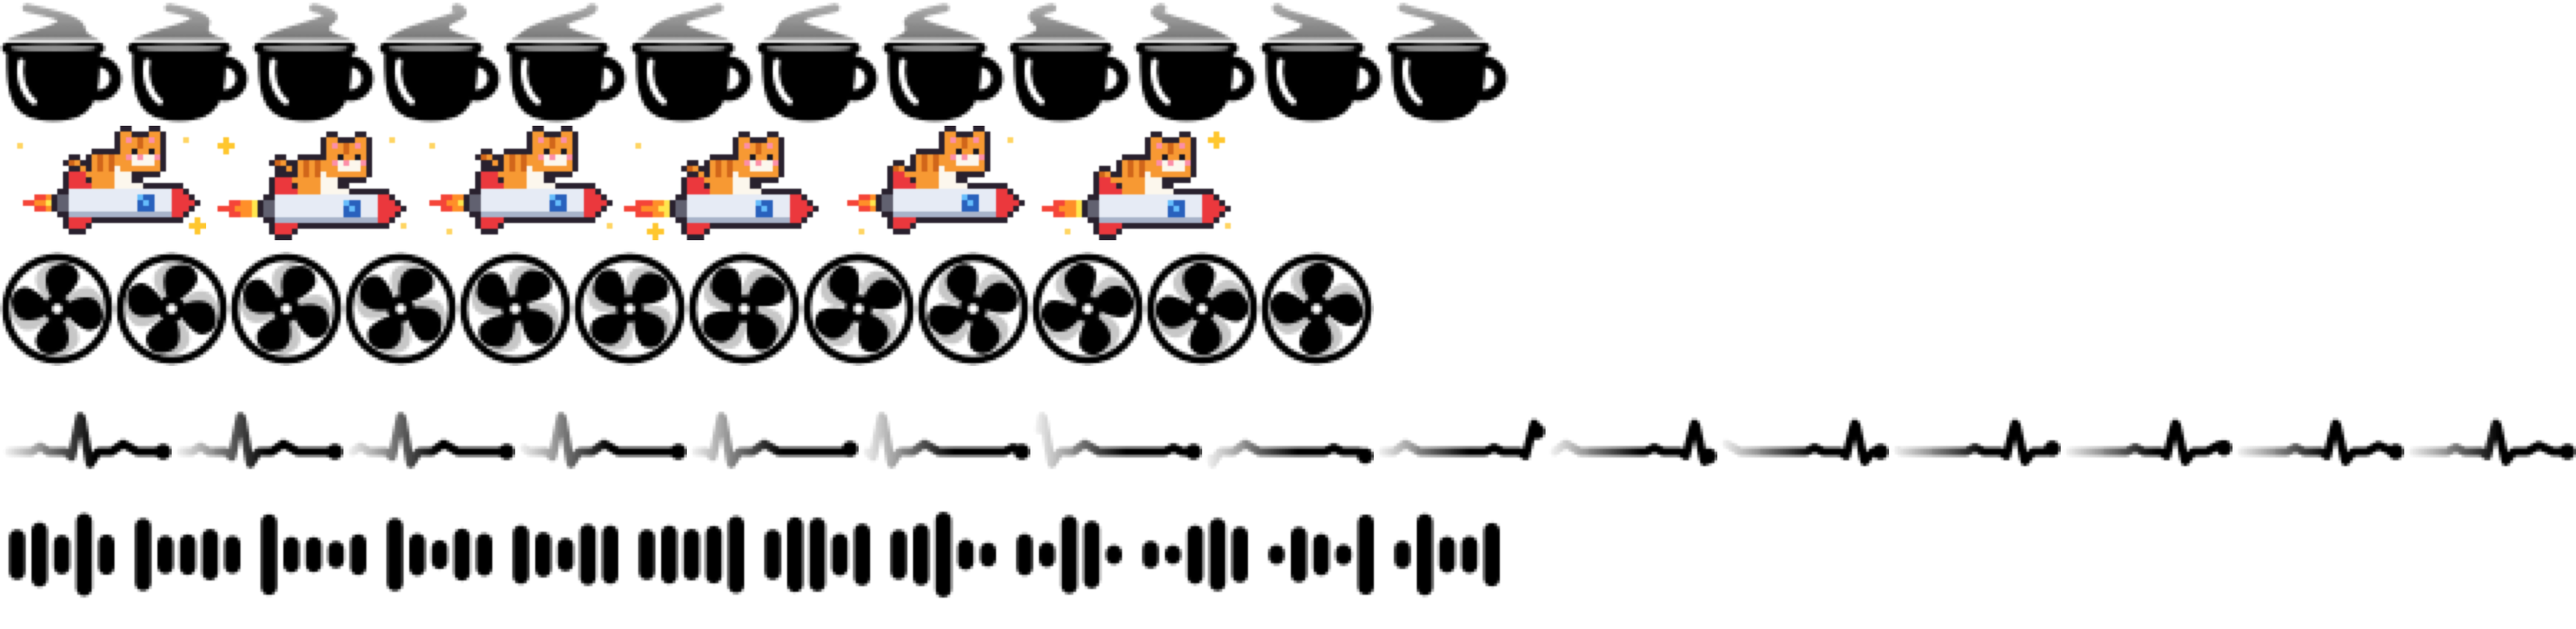
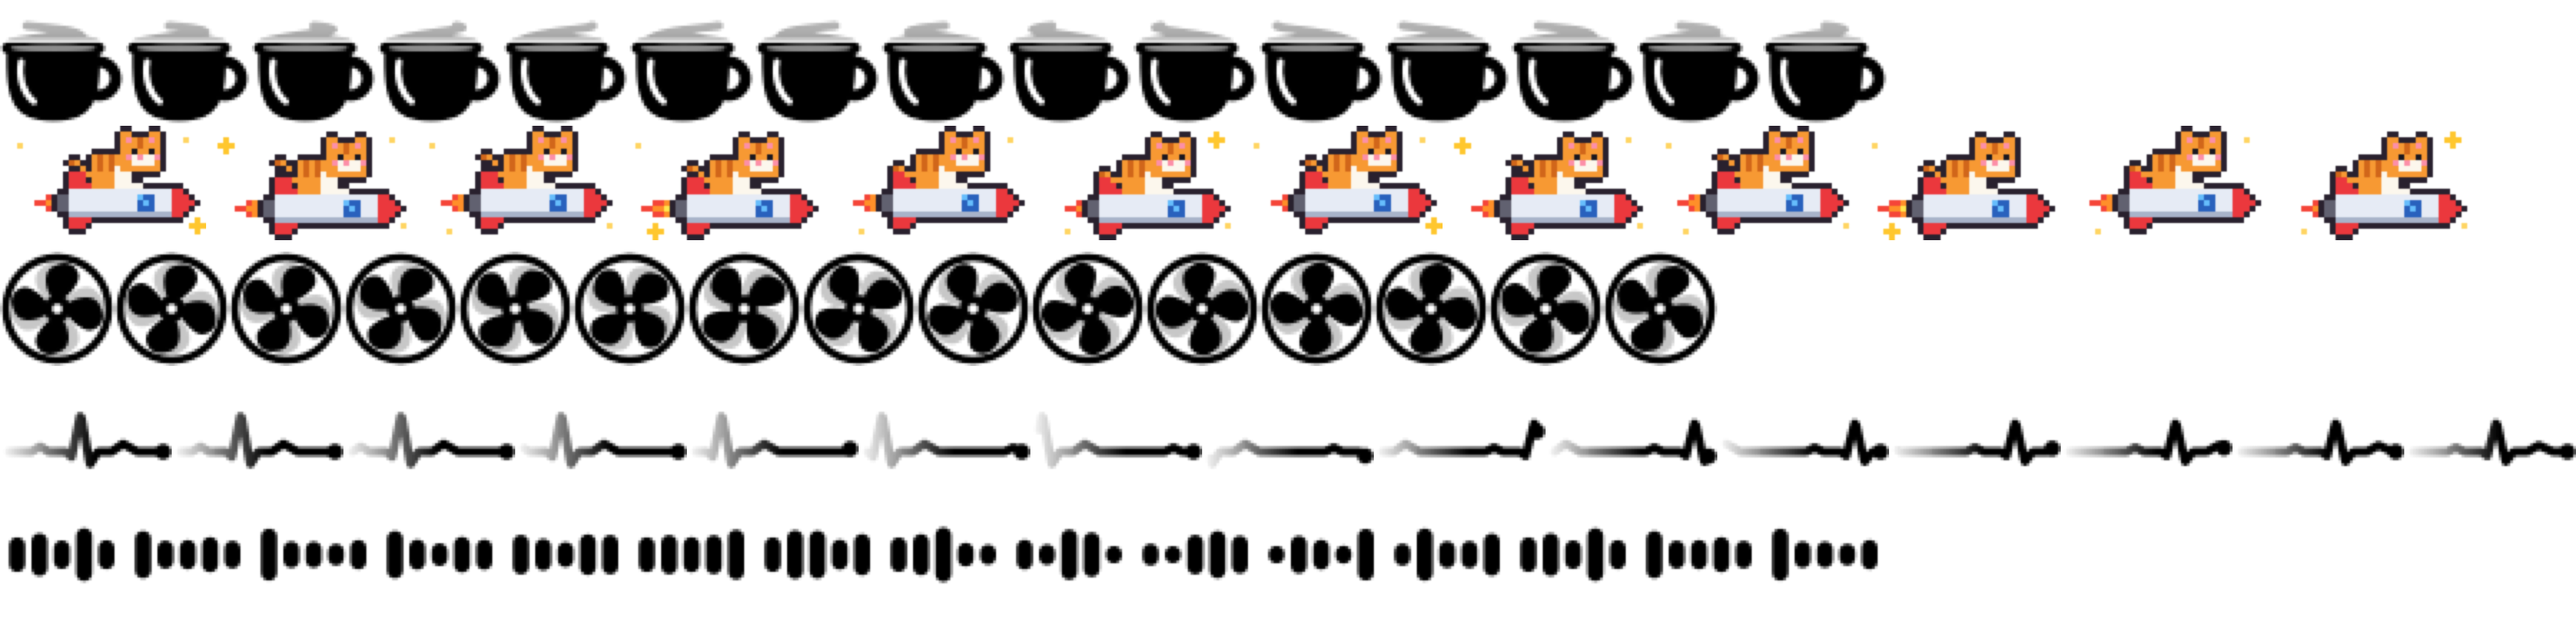
All runners: three CPU levels and a gentler fps curve
Fan, sound wave, coffee and Rocket Cat get the same three load levels as the
heartbeat (per-frame speed x1 / x1.5 / x2 plus a bigger trail, bounce, steam
or flame). Frame rate now goes 4 -> 16 -> 25 fps at 0 / 50 / 100% load
instead of 4 -> 40.

Claude-Session: https://claude.ai/code/session_015j29UegvhJCuXw6JaCbhzY

diff --git a/main.swift b/main.swift
@@ -303,10 +303,12 @@ struct Runner {
 
     static let all: [Runner] = [coffee, rocketCat, fan, pulse, bars]
 
-    // 橘猫火箭（原创彩色像素画）：橘猫骑着小火箭，尾焰闪烁，星星一闪一闪
-    static let rocketCat = Runner(id: "rocket", name: "橘猫火箭|Rocket Cat", frameCount: 6, size: NSSize(width: 36, height: 20), template: false) { t, _ in
+    // 橘猫火箭（原创彩色像素画）：橘猫骑着小火箭，尾焰闪烁，星星一闪一闪；占用率越高尾焰越长、闪得越快
+    static let rocketCat = Runner(id: "rocket", name: "橘猫火箭|Rocket Cat", frameCount: 12, size: NSSize(width: 36, height: 20), template: false, levels: 3) { t, level in
         let W = 36, H = 20
-        let f = Int((t / (2 * .pi) * 6).rounded()) % 6
+        let f12 = Int((t / (2 * .pi) * 12).rounded()) % 12
+        let f = f12 % 6                                  // 颠簸、尾巴：每帧走 1 步
+        let g = Int(Double(f12) * [1, 1.5, 2][level]) % 6   // 尾焰、星星：每帧走 1 / 1.5 / 2 步（12 帧走 12 / 18 / 24 步，循环无缝）
         func c(_ r: Double, _ g: Double, _ b: Double) -> NSColor { NSColor(srgbRed: r, green: g, blue: b, alpha: 1) }
         let orange = c(0.97, 0.60, 0.20), stripe = c(0.82, 0.40, 0.10), white = c(0.99, 0.97, 0.93)
         let pink = c(0.99, 0.56, 0.66), eye = c(0.10, 0.09, 0.12), outline = c(0.16, 0.13, 0.18)
@@ -357,9 +359,10 @@ struct Runner {
             if n.contains(where: { $0.0 >= 0 && $0.0 < W && $0.1 >= 0 && $0.1 < H && solid[$0.1][$0.0] }) { grid[y][x] = outline }
         } }
 
-        // —— 尾焰（不描边）：黄 → 橙 → 红，长度闪动
-        let len = [6, 8, 7, 9, 6, 8][f]
-        for (dy, short) in [(11, 2), (12, 0), (13, 2)] {
+        // —— 尾焰（不描边）：黄 → 橙 → 红，长度闪动；高档长短交替更猛，上下再加两道
+        let len = [[4, 5, 5, 6, 5, 4], [6, 8, 7, 9, 6, 8], [10, 7, 10, 8, 10, 7]][level][g]
+        let rows = level == 2 ? [(10, 4), (11, 1), (12, 0), (13, 1), (14, 4)] : [(11, 2), (12, 0), (13, 2)]
+        for (dy, short) in rows {
             let l = len - short
             for i in 0..<max(l, 0) {
                 let x = 9 - i
@@ -375,7 +378,7 @@ struct Runner {
 
         // —— 星星：一闪一闪，亮时是十字
         for (sx, sy, ph) in [(3, 3, 0), (32, 2, 2), (6, 18, 4), (34, 17, 1)] {
-            let phase = (f + ph) % 6
+            let phase = (g + ph) % 6
             guard phase < 4 else { continue }
             let col = NSColor(srgbRed: 1, green: 0.78, blue: 0.18, alpha: phase == 1 ? 1 : 0.75)   // 暖黄，浅色背景也看得见
             col.setFill()
@@ -386,8 +389,8 @@ struct Runner {
         }
     }
 
-    // 一杯咖啡：圆润杯子 + 细节（杯沿、液面、高光），热气从整个杯口升起、往上收细变淡
-    static let coffee = Runner(id: "coffee", name: "咖啡|Coffee", frameCount: 12, size: NSSize(width: 22, height: 22)) { t, _ in
+    // 一杯咖啡：圆润杯子 + 细节（杯沿、液面、高光），热气从整个杯口升起、往上收细变淡；占用率越高热气越多、升得越快
+    static let coffee = Runner(id: "coffee", name: "咖啡|Coffee", frameCount: 24, size: NSSize(width: 22, height: 22), levels: 3) { t, level in
         let ctx = NSGraphicsContext.current!.cgContext
         ctx.translateBy(x: 0.5, y: 0)                       // 左右留边
 
@@ -427,26 +430,29 @@ struct Runner {
         // 热气：从整个杯口升起，往上收成一缕，越高越淡
         let left = ax + (3.6 - ax) * K, right = ax + (14.4 - ax) * K
         let mid = (left + right) / 2, amp = (right - left) / 2 - 2.2
-        let base = 10.4 * K + 0.6, top = 20.6
-        let n = 40
-        let pts = (0...n).map { i -> NSPoint in
-            let u = Double(i) / Double(n)
-            return NSPoint(x: mid + sin(u * 1.25 * .pi - t) * (amp + 1) * pow(u, 1.1), y: base + u * (top - base))
+        let base = 10.4 * K + 0.6, top = [17.5, 20.6, 21.6][level]
+        let n = 40, tt = t * [2, 3, 4][level]                 // 24 帧摆动 2 / 3 / 4 次（每帧 ×1 / ×1.5 / ×2），循环无缝
+        // 一缕热气：沿中心线叠扁椭圆，形状平滑不翻折；高档两侧再各冒一缕细的
+        func wisp(_ dx: Double, _ ph: Double, _ ws: Double, _ topY: Double) -> NSBezierPath {
+            let path = NSBezierPath()
+            for i in 0...n {
+                let u = Double(i) / Double(n)
+                let x = mid + dx * (1 - u * 0.5) + sin(u * 1.25 * .pi - tt + ph) * (amp + 1) * ws * pow(u, 1.1), y = base + u * (topY - base)
+                let w = ((right - left - 1.0) * pow(1 - u, 2.2) + 1.8) * ws, h = 1.2 + u * 0.4
+                path.append(NSBezierPath(ovalIn: NSRect(x: x - w / 2, y: y - h / 2, width: w, height: h)))
+            }
+            return path
         }
-        func width(_ u: Double) -> Double { (right - left - 1.0) * pow(1 - u, 2.2) + 1.8 }
         ctx.beginTransparencyLayer(auxiliaryInfo: nil)
-        // 沿中心线叠扁椭圆，形状平滑不翻折
-        let steam = NSBezierPath()
-        for i in 0...n {
-            let u = Double(i) / Double(n), w = width(u), h = 1.2 + u * 0.4
-            steam.append(NSBezierPath(ovalIn: NSRect(x: pts[i].x - w / 2, y: pts[i].y - h / 2, width: w, height: h)))
-        }
+        let steam = wisp(0, 0, 1, top)
+        if level == 2 { steam.append(wisp(-4.2, .pi, 0.45, top - 2)); steam.append(wisp(4.2, .pi / 2, 0.45, top - 3)) }
         ctx.saveGState()
         NSBezierPath(rect: NSRect(x: -1, y: base, width: 24, height: 22)).addClip()
         steam.fill()
         ctx.restoreGState()
         NSGraphicsContext.current?.compositingOperation = .destinationIn
-        NSGradient(starting: NSColor.black.withAlphaComponent(0.6), ending: NSColor.black.withAlphaComponent(0.3))!
+        let alpha = [0.4, 0.6, 0.8][level]
+        NSGradient(starting: NSColor.black.withAlphaComponent(alpha), ending: NSColor.black.withAlphaComponent(alpha / 2))!
             .draw(in: NSRect(x: -1, y: base - 2, width: 24, height: 24 - base), angle: 90)
         NSGraphicsContext.current?.compositingOperation = .sourceOver
         ctx.endTransparencyLayer()
@@ -457,16 +463,17 @@ struct Runner {
 private func pt(_ x: Double, _ y: Double) -> NSPoint { NSPoint(x: x, y: y) }
 
 extension Runner {
-    // 小风扇：四片弯叶片顺时针转，带一层淡淡的残影
-    static let fan = Runner(id: "fan", name: "风扇|Fan", frameCount: 12, size: NSSize(width: 20, height: 20)) { t, _ in
+    // 小风扇：四片弯叶片顺时针转，带淡淡的残影；占用率越高每帧转得越多（×1 / ×1.5 / ×2）、残影越长
+    static let fan = Runner(id: "fan", name: "风扇|Fan", frameCount: 24, size: NSSize(width: 20, height: 20), levels: 3) { t, level in
         let ctx = NSGraphicsContext.current!.cgContext
         let ring = NSBezierPath(ovalIn: NSRect(x: 1, y: 1, width: 18, height: 18))
         ring.lineWidth = 1.3; ring.stroke()
         for k in 0..<4 {
-            for (off, a) in [(0.35, 0.22), (0.0, 1.0)] {       // 先画残影，再画叶片
+            let trail: [(Double, Double)] = [[(0.35, 0.22)], [(0.6, 0.12), (0.3, 0.26)], [(0.9, 0.08), (0.6, 0.16), (0.3, 0.3)]][level]
+            for (off, a) in trail + [(0.0, 1.0)] {             // 先画残影，再画叶片
                 ctx.saveGState()
                 ctx.translateBy(x: 10, y: 10)
-                ctx.rotate(by: CGFloat(-t / 4 + Double(k) * .pi / 2 + off))   // 4 重对称：一圈动画转 1/4 圈
+                ctx.rotate(by: CGFloat(-t / 2 * [1, 1.5, 2][level] + Double(k) * .pi / 2 + off))   // 4 重对称：24 帧转 1/2、3/4、1 圈
                 let b = NSBezierPath()
                 b.move(to: pt(-0.8, 1.6))
                 b.curve(to: pt(-0.2, 7.6), controlPoint1: pt(-2.6, 4.2), controlPoint2: pt(-2.4, 7.0))
@@ -482,12 +489,13 @@ extension Runner {
         punch { NSBezierPath(ovalIn: NSRect(x: 9.1, y: 9.1, width: 1.8, height: 1.8)).fill() }
     }
 
-    // 心电图：波形向左滚动，左侧渐隐，右端一个亮点；占用率越高档位越高，窗口里的心跳越密（1 / 2 / 3 拍）、滚得越快（每帧 ×1 / ×2 / ×3），每拍高低不一，档位越高峰越高
+    // 心电图：波形向左滚动，左侧渐隐，右端一个亮点；占用率越高档位越高，窗口里的心跳越密（1 / 2 / 3 拍）、滚得越快（每帧 ×1 / ×1.5 / ×2），每拍高低不一，档位越高峰越高
     static let pulse = Runner(id: "pulse", name: "心电图|Heartbeat", frameCount: 45, size: NSSize(width: 30, height: 18), levels: 3) { t, level in
         let ctx = NSGraphicsContext.current!.cgContext
-        // 一圈帧滚过 90×(level+1) 个单位 = 3×(level+1)² 拍，循环无缝；拍子变密时波形横向压缩
-        let period = 30.0 / Double(level + 1), sx = [1, 0.6, 0.42][level], off = t / (2 * .pi) * 90 * Double(level + 1), base = 5.0
-        let beats = 3 * (level + 1) * (level + 1)
+        // 一圈帧滚过 90×m 个单位（m = 1 / 1.5 / 2）= 3 / 9 / 18 拍，循环无缝；拍子变密时波形横向压缩
+        let m = [1, 1.5, 2][level]
+        let period = 30.0 / Double(level + 1), sx = [1, 0.6, 0.42][level], off = t / (2 * .pi) * 90 * m, base = 5.0
+        let beats = Int(3 * m * Double(level + 1))
         let amps = [1.0, 0.8, 0.92, 0.72, 0.97, 0.84, 0.88, 0.76, 0.94]   // 每拍的幅度
         let scale = [0.7, 0.9, 1.15][level]                                 // 档位整体高度
         let keys: [(Double, Double)] = [(0, 0), (4, 0), (5.5, 1.3), (7, 0), (10, 0), (11, -1.3), (12.6, 9.5), (14.2, -3.2),
@@ -516,12 +524,13 @@ extension Runner {
         NSBezierPath(ovalIn: NSRect(x: 27.1, y: y - 1.4, width: 2.8, height: 2.8)).fill()
     }
 
-    // 音波：五根圆头竖条随节奏跳动
-    static let bars = Runner(id: "bars", name: "音波|Sound Wave", frameCount: 12, size: NSSize(width: 22, height: 18)) { t, _ in
-        let phase = [0, 2.1, 4.0, 1.1, 3.1], k = [1.0, 2, 1, 3, 2]   // 频率取整数倍，循环无缝
+    // 音波：五根圆头竖条随节奏跳动；占用率越高跳得越高、越密
+    static let bars = Runner(id: "bars", name: "音波|Sound Wave", frameCount: 24, size: NSSize(width: 22, height: 18), levels: 3) { t, level in
+        let phase = [0, 2.1, 4.0, 1.1, 3.1], k = [1.0, 2, 1, 3, 2], f = [2.0, 3, 4][level]   // 24 帧：频率 ×2 / ×3 / ×4 取整，每帧 ×1 / ×1.5 / ×2，循环无缝
+        let span = [7.0, 10.5, 14.5][level]                   // 跳动幅度
         for i in 0..<5 {
-            let v = 0.5 + 0.32 * sin(k[i] * t + phase[i]) + 0.18 * sin((k[i] + 1) * t + phase[i] * 1.7)
-            let h = 2.6 + v * 12.4
+            let v = 0.5 + 0.32 * sin(k[i] * f * t + phase[i]) + 0.18 * sin((k[i] + 1) * f * t + phase[i] * 1.7)
+            let h = 2.6 + v * span
             NSBezierPath(roundedRect: NSRect(x: 1.6 + Double(i) * 3.9, y: 9 - h / 2, width: 2.8, height: h), xRadius: 1.4, yRadius: 1.4).fill()
         }
     }
@@ -2729,12 +2738,12 @@ final class AppDelegate: NSObject, NSApplicationDelegate {
         }
     }
 
-    /// CPU 越高跑得越快：0% → 4 帧/秒，100% → 40 帧/秒（指数变化）
+    /// CPU 越高跑得越快：0% → 4 帧/秒，50% → 16，100% → 25（两段指数变化）
     private func scheduleAnimation() {
-        // 跟随占用率，按“倍数”变化（人眼感知速度看的是快了几倍）：0% → 4，50% → 13，70% → 20，100% → 40 帧/秒
+        // 跟随占用率，按“倍数”变化（人眼感知速度看的是快了几倍）：前半段 4 → 16 涨得快，后半段 16 → 25 放缓，高占用时不至于太晃
         // 动画由图层在渲染服务器里播放，帧率高低几乎不影响 CPU
         let u = min(max(usage, 0), 1)
-        let fps = 4 * pow(10, u)
+        let fps = u <= 0.5 ? 4 * pow(4, u * 2) : 16 * pow(25.0 / 16, u * 2 - 1)
         // 分档 runner：越过档位边界 0.1 才换档，避免占用率在边界附近抖动时反复换帧
         let raw = u * Double(runner.levels)
         if runner.levels > 1, abs(raw - (Double(runLevel) + 0.5)) > 0.6 {

diff --git a/README.md b/README.md
@@ -25,7 +25,7 @@
 
 ## Features
 
-- **Runners** — a steaming coffee cup, a colour pixel-art Rocket Cat (an orange tabby riding a rocket with a flickering flame), a spinning fan, a scrolling heartbeat line (it races faster, packs in more beats and peaks taller as CPU load rises) and bouncing sound-wave bars — all original designs, drawn in code; the monochrome ones are template images that adapt to light / dark menu bars. Their speed follows CPU, GPU or memory usage.
+- **Runners** — a steaming coffee cup, a colour pixel-art Rocket Cat (an orange tabby riding a rocket with a flickering flame), a spinning fan, a scrolling heartbeat line and bouncing sound-wave bars — all original designs, drawn in code; the monochrome ones are template images that adapt to light / dark menu bars. Their speed follows CPU, GPU or memory usage, in three clearly different levels: the fan spins faster with a longer trail, the bars jump higher, the steam thickens, the rocket flame grows and the heartbeat packs in more, taller beats.
 - **Menu bar metrics with live mini graphs** — CPU, GPU, memory, battery, network, SoC or battery temperature. Choose *Graph + Number*, *Graph only* or *Number only*.
 - **Liquid Glass panel** (`NSPopover` + `NSGlassEffectView`), animated at 60 fps:
   - Machine spec — model, chip, CPU / GPU cores, memory, disk, macOS version

diff --git a/README.zh-CN.md b/README.zh-CN.md
@@ -25,7 +25,7 @@
 
 ## 功能
 
-- **Runner**：冒热气的咖啡、彩色像素画「橘猫火箭」（橘猫骑着火箭，尾焰闪烁）、旋转风扇、滚动的心电图（CPU 越高滚得越快、心跳越密、峰越高）、跳动的音波，均为原创设计，用代码绘制；单色的是模板图，自动适配深浅色菜单栏；速度可以跟随 CPU、GPU 或内存占用。
+- **Runner**：冒热气的咖啡、彩色像素画「橘猫火箭」（橘猫骑着火箭，尾焰闪烁）、旋转风扇、滚动的心电图、跳动的音波，均为原创设计，用代码绘制；单色的是模板图，自动适配深浅色菜单栏；速度可以跟随 CPU、GPU 或内存占用，分三档、差别明显：风扇转得更快、残影更长，音波跳得更高，热气更浓，尾焰更长，心电图心跳更密、峰更高。
 - **菜单栏指标 + 动态小图**：CPU、GPU、内存、电池、网络、芯片或电池温度；可选「图表 + 数字」「仅图表」「仅数字」。
 - **液态玻璃面板**（`NSPopover` + `NSGlassEffectView`），60fps 动画：
   - 本机配置：机型、芯片、CPU / GPU 核心数、内存、硬盘、系统版本
